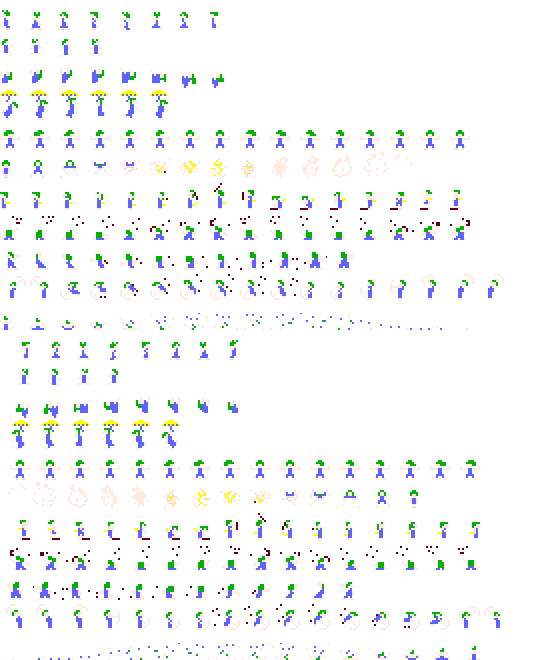
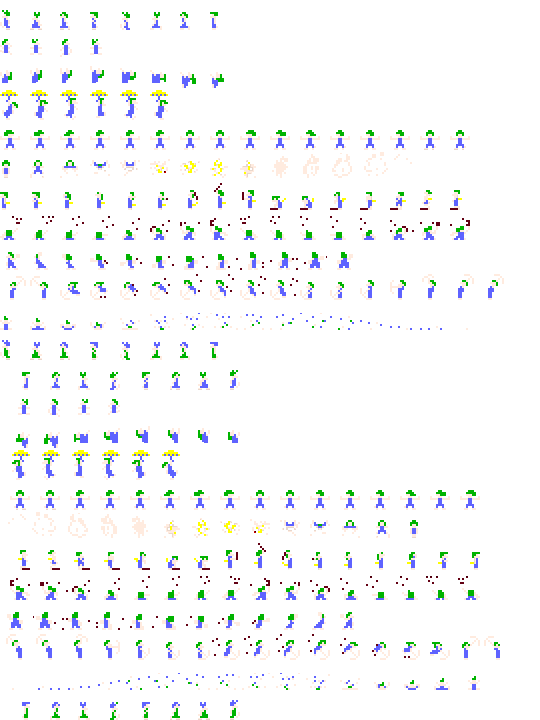
lemmings: pending_action walk animation

diff --git a/lemmings/nodes/lemming.py b/lemmings/nodes/lemming.py
@@ -17,16 +17,17 @@ class Lemming(retro.Sprite):
             animations = retro.Animations(
                 frame_size = (30, 30),
                 period = 100,
-                WALK_L  = (range(0, 8), 0),   WALK_R  = (revrange(0, 8), 11),
-                FALL_L  = (range(0, 4), 1),   FALL_R  = (revrange(0, 4), 12),
-                FLOAT_L = (range(0, 6), 3),   FLOAT_R = (revrange(0, 6), 14),
-                STOP_L  = (range(0, 16), 4),  STOP_R  = (revrange(0, 16), 15),
-                BOMB_L  = (range(0, 14), 5),  BOMB_R  = (revrange(0, 14), 16),
-                BUILD_L = (range(0, 16), 6),  BUILD_R = (revrange(0, 16), 17),
-                DIGV_L  = (range(0, 16), 7),  DIGV_R  = (revrange(0, 16), 18),
-                DIGH_L  = (range(0, 12), 8),  DIGH_R  = (revrange(0, 12), 19),
-                MINE_L  = (range(0, 17), 9),  MINE_R  = (revrange(0, 17), 20),
-                DEAD_L  = (range(0, 16), 10), DEAD_R  = (revrange(0, 16), 21),
+                WALK_L  = (range(0, 8), 0),   WALK_R  = (revrange(0, 8), 12),
+                WALKA_L = (range(0, 8), 11),  WALKA_R = (revrange(0, 8), 23),
+                FALL_L  = (range(0, 4), 1),   FALL_R  = (revrange(0, 4), 13),
+                FLOAT_L = (range(0, 6), 3),   FLOAT_R = (revrange(0, 6), 15),
+                STOP_L  = (range(0, 16), 4),  STOP_R  = (revrange(0, 16), 16),
+                BOMB_L  = (range(0, 14), 5),  BOMB_R  = (revrange(0, 14), 17),
+                BUILD_L = (range(0, 16), 6),  BUILD_R = (revrange(0, 16), 18),
+                DIGV_L  = (range(0, 16), 7),  DIGV_R  = (revrange(0, 16), 19),
+                DIGH_L  = (range(0, 12), 8),  DIGH_R  = (revrange(0, 12), 20),
+                MINE_L  = (range(0, 17), 9),  MINE_R  = (revrange(0, 17), 21),
+                DEAD_L  = (range(0, 16), 10), DEAD_R  = (revrange(0, 16), 22),
             ),
         )
         self.rect.topleft = position
@@ -103,7 +104,7 @@ class Lemming(retro.Sprite):
             elif self.actions.float.enabled:
                 self.state = self.actions.walk.start()
             else:
-                self.actions.walk.run(collisions_all)
+                self.actions.walk.run(collisions_all, pending_action=True)
 
         elif self.state == self.actions.stop:
             self.actions.stop.run()
@@ -112,7 +113,7 @@ class Lemming(retro.Sprite):
             if self.actions.bomb.timer.finished or collisions_all.fall:
                 self.actions.bomb.run()
             else:
-                self.actions.walk.run(collisions_all)
+                self.actions.walk.run(collisions_all, pending_action=True)
 
         elif self.state == self.actions.build:
             if self.actions.build.finished or collisions_bg.side:
@@ -136,7 +137,7 @@ class Lemming(retro.Sprite):
             elif collisions_all.fall or self.actions.digh.enabled:
                 self.state = self.actions.walk.start()
             else:
-                self.actions.walk.run(collisions_all)
+                self.actions.walk.run(collisions_all, pending_action=True)
 
         elif self.state == self.actions.mine:
             if (
@@ -148,7 +149,7 @@ class Lemming(retro.Sprite):
             elif collisions_all.fall or self.actions.mine.enabled:
                 self.state = self.actions.walk.start()
             else:
-                self.actions.walk.run(collisions_all)
+                self.actions.walk.run(collisions_all, pending_action=True)
 
         elif self.state == self.actions.dead:
             self.actions.dead.run()

diff --git a/lemmings/nodes/actions.py b/lemmings/nodes/actions.py
@@ -9,22 +9,21 @@ class Walk:
     def start(self):
         return self
 
-    def run(self, collisions):
-        self.walk(collisions)
-        self.slope()
-
-    def walk(self, collisions):
+    def run(self, collisions, pending_action=False):
+        # walk
         if collisions.side:
             self.dx *= -1
             self.lemming.rect.move_ip(-self.dx * 20, 0)
 
-        self.lemming.set_animation("WALK")
+        self.lemming.set_animation("WALKA" if pending_action else "WALK")
         self.lemming.rect.move_ip(self.dx, 0)
 
-    def slope(self):
+        # slope
         c = self.lemming.collisions(self.lemming.bg.image)
-        if not c.fall: self.slope_up()
-        else:          self.slope_down()
+        if not c.fall:
+            self.slope_up()
+        else:
+            self.slope_down()
 
     def slope_up(self):
         self.lemming.rect.move_ip(0, -2)
